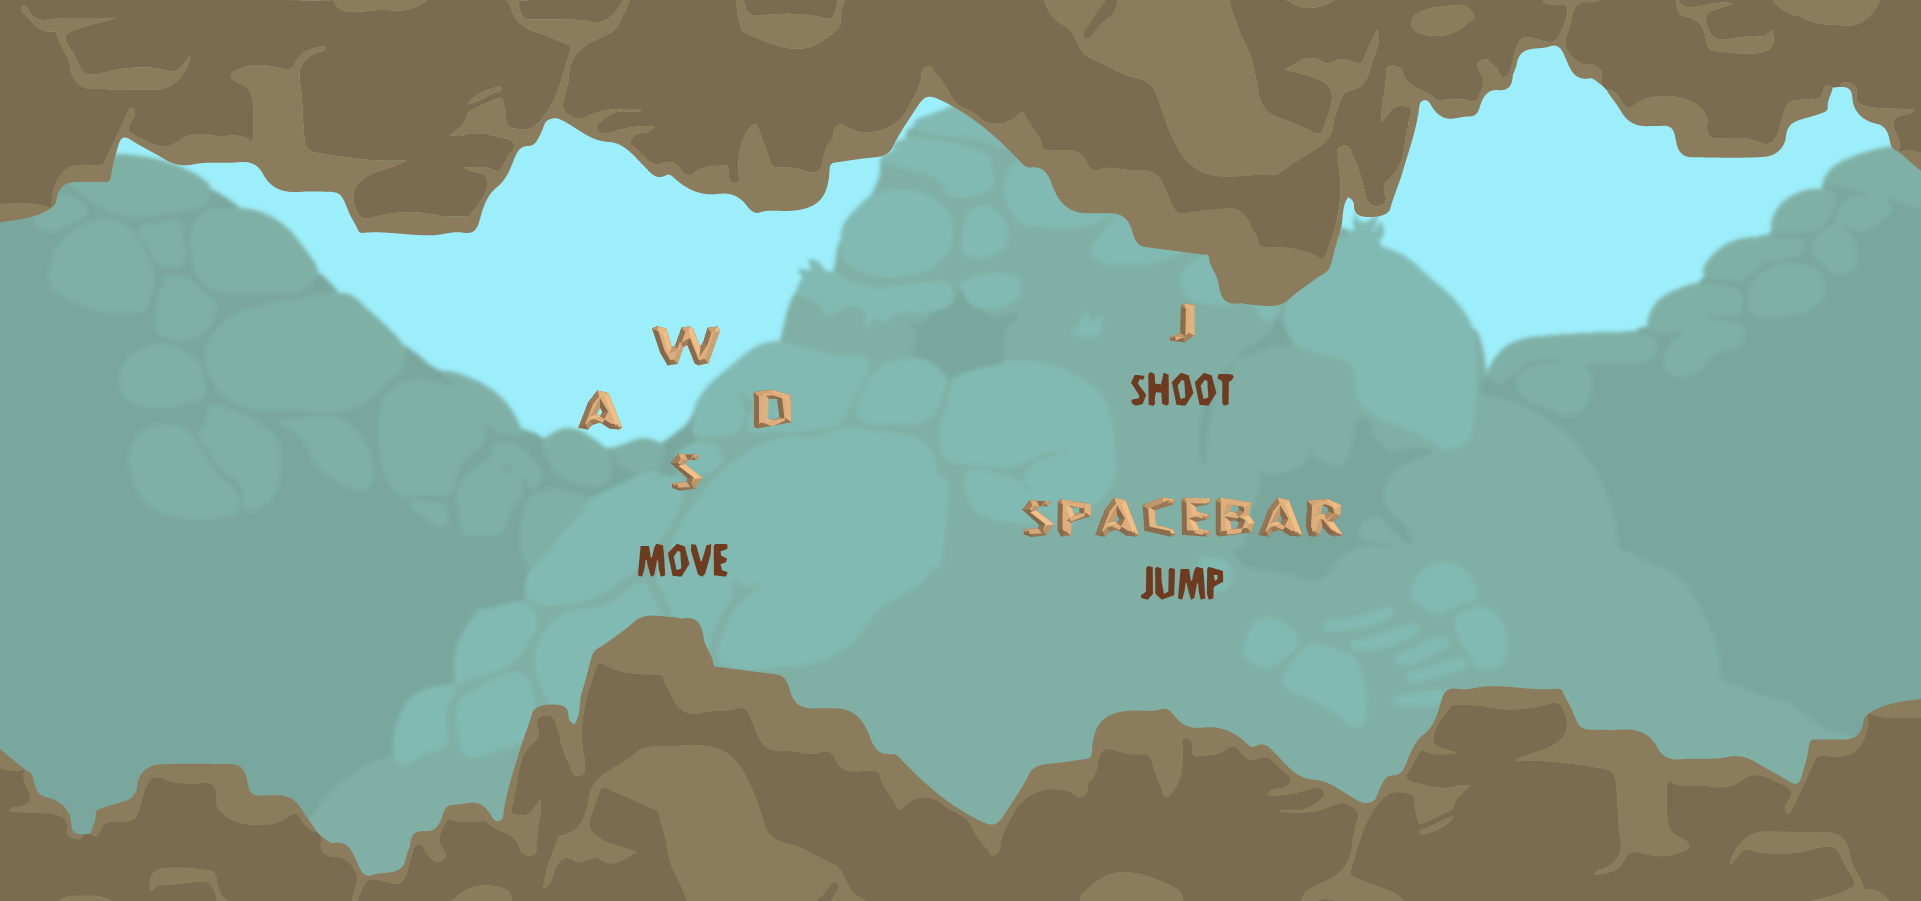
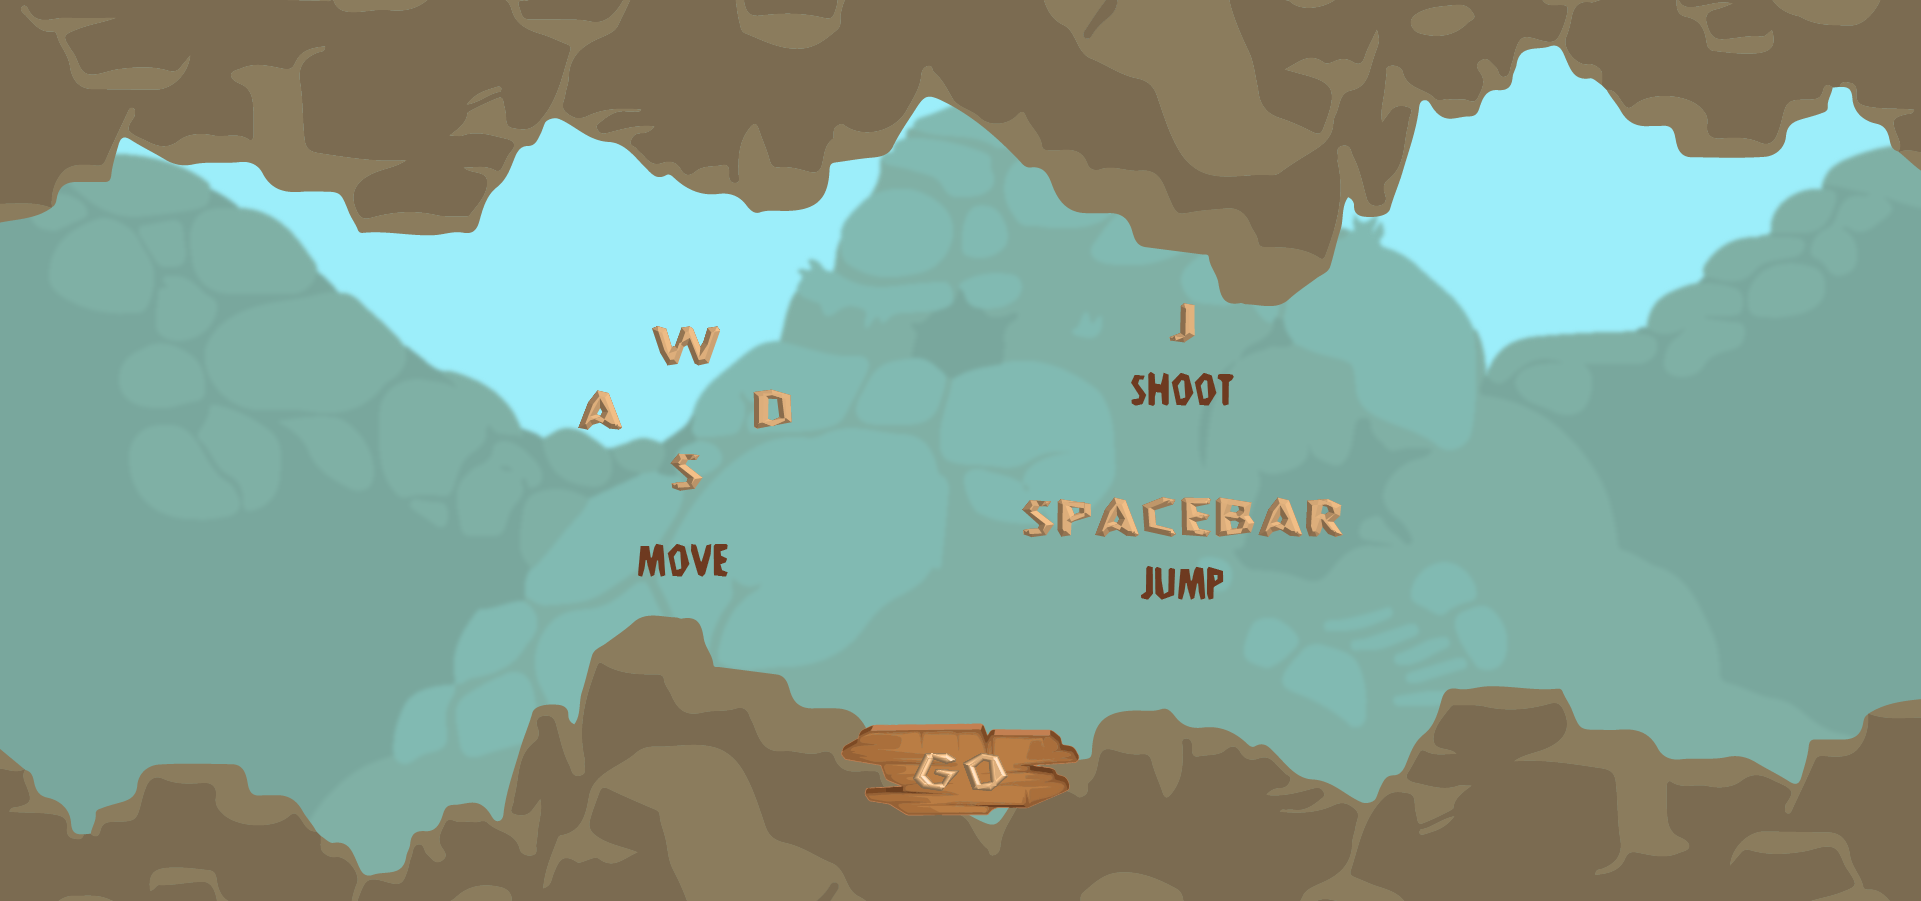
finished basic buttons to change screen

Changed region(s): [[0.4373, 0.7769, 0.5622, 0.9323]]

diff --git a/src/controller/MainController.java b/src/controller/MainController.java
@@ -74,11 +74,11 @@ public class MainController {
 		}
 		
 		//Intro Screen --> Game Screen
-		if (screen == 1 && mouseX > (0 - (1080 / 2))
-				&& mouseX < (1800 + (1080 / 2))
-				&& mouseY > (0 - (920 / 2))
-				&& mouseY < (920 + (920 / 2))) {
-			screen = 1;
+		if (screen == 1 && mouseX > (840 - (300 / 2))
+				&& mouseX < (840 + (300 / 2))
+				&& mouseY > (730 - (100 / 2))
+				&& mouseY < (730 + (100 / 2))) {
+			screen = 2;
 
 		}
 	}
